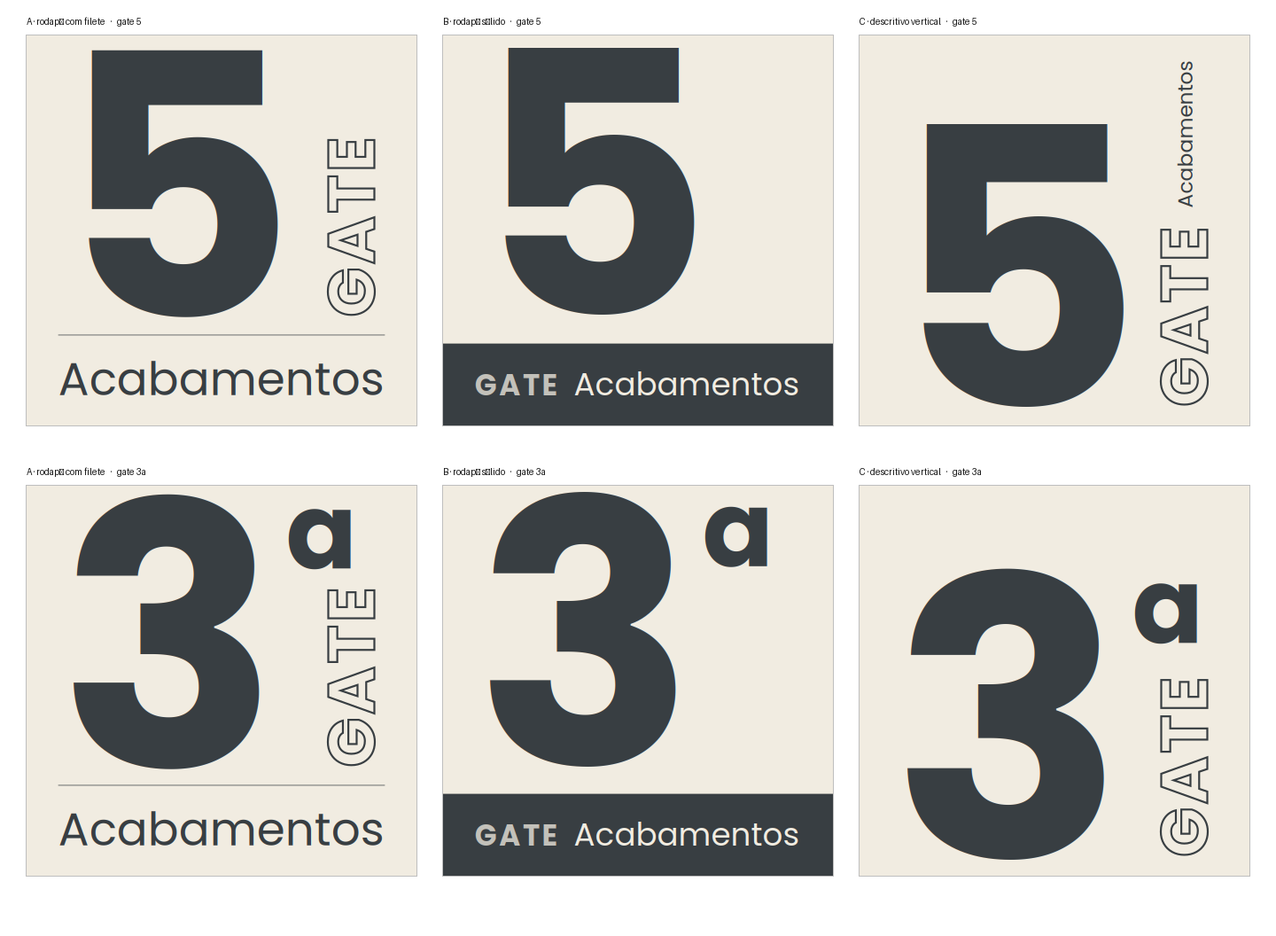
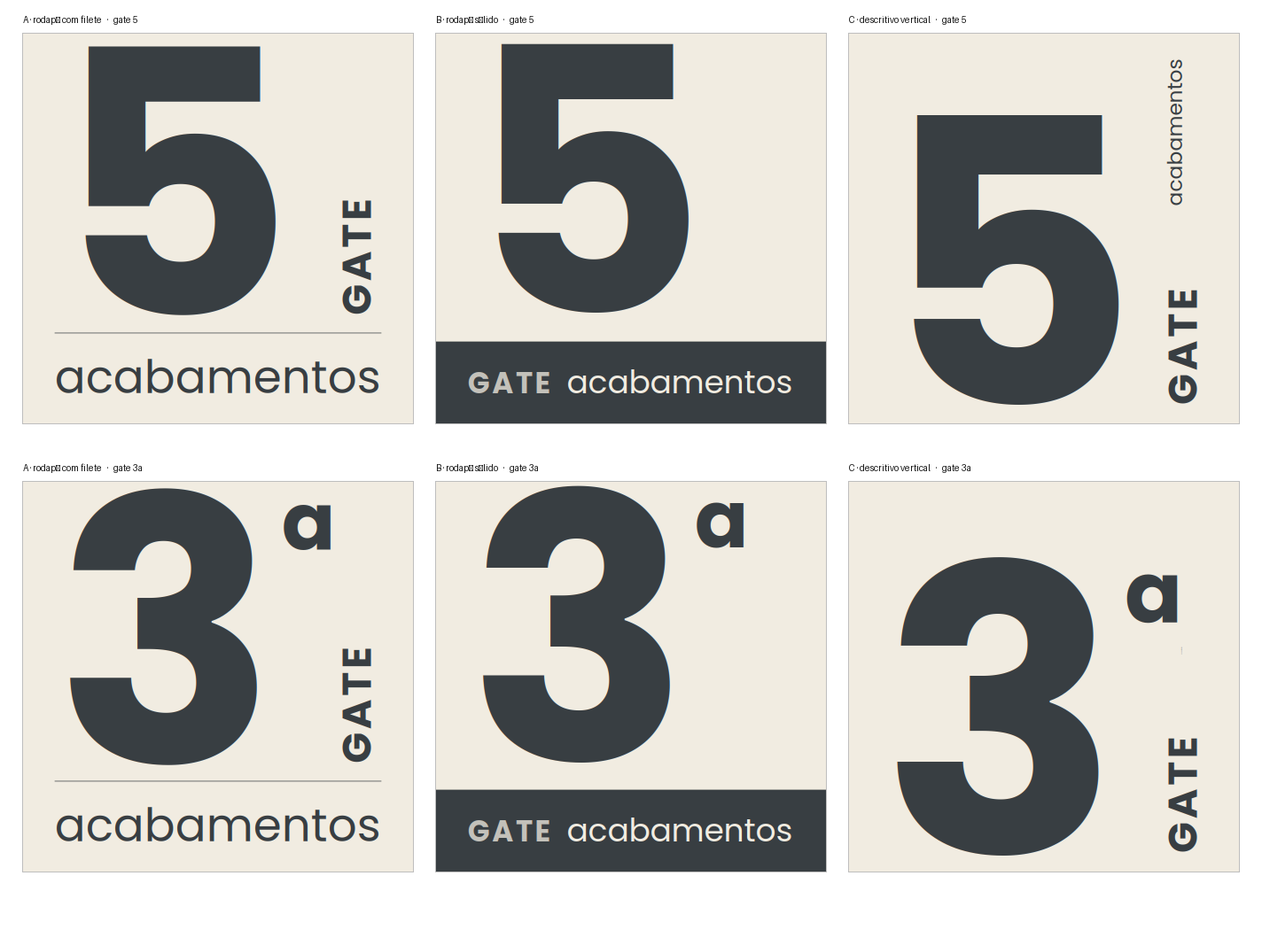
Set the numeral in SemiBold and drop the descriptives' initial capital
The numeral was Bold 700; it is now SemiBold 600, which opens the counters
that Bold was closing at this size. GATE stays at Bold 700 — it is small, and
the extra weight compensates optically for the reduced size. Both are one
constant each in the generator.

The change does not buy a bigger numeral: it is limited by the height left
above the descriptive footer, not by width, and 600 is only 2.4% narrower
than 700.

Descriptives lose their initial capital, matching how the brand writes
"fenabel" and "the heart of seating". The generator lowercases the first
character on read, so descritivos.json is normalised however it is typed, and
internal acronyms survive.

Weights now flow through the metrics helper per call rather than defaulting to
700, and every comparison sheet is regenerated so nothing in the repo still
shows the old weight or capitalisation.

Claude-Session: https://claude.ai/code/session_013mNXnbAsAh2sutmGwQ3Pq1

diff --git a/sinaletica-cargas/design-system/Serie.dc.html b/sinaletica-cargas/design-system/Serie.dc.html
@@ -40,34 +40,34 @@
       <div style="display:grid; grid-template-columns:repeat(5, minmax(0, 1fr));
                   gap:22px; margin-top:30px">
         <div style="display:flex; flex-direction:column; gap:8px">
-          <div style="border:1px solid #DAD7D0"><svg viewBox="0 0 1000 1000" style="display:block;width:100%;height:auto"><rect width="1000" height="1000" fill="#F1ECE1"/><text x="81" y="722" font-family="Poppins" font-weight="700" font-size="936" fill="#383E42" >2</text><g transform="translate(892,722) rotate(-90)"><text font-family="Poppins" font-weight="700" font-size="104" letter-spacing="8" fill="#383E42">GATE</text></g><line x1="81" y1="768" x2="919" y2="768" stroke="#383E42" stroke-width="3" opacity=".55"/><text x="81" y="922" font-family="Poppins" font-weight="500" font-size="117" fill="#383E42" >[descritivo]</text></svg></div>
+          <div style="border:1px solid #DAD7D0"><svg viewBox="0 0 1000 1000" style="display:block;width:100%;height:auto"><rect width="1000" height="1000" fill="#F1ECE1"/><text x="81" y="722" font-family="Poppins" font-weight="600" font-size="942" fill="#383E42" >2</text><g transform="translate(892,722) rotate(-90)"><text font-family="Poppins" font-weight="700" font-size="104" letter-spacing="8" fill="#383E42">GATE</text></g><line x1="81" y1="768" x2="919" y2="768" stroke="#383E42" stroke-width="3" opacity=".55"/><text x="81" y="922" font-family="Poppins" font-weight="500" font-size="117" fill="#383E42" >[descritivo]</text></svg></div>
           <span class="lbl" style="">gate 2</span>
         </div><div style="display:flex; flex-direction:column; gap:8px">
-          <div style="border:1px solid #DAD7D0"><svg viewBox="0 0 1000 1000" style="display:block;width:100%;height:auto"><rect width="1000" height="1000" fill="#F1ECE1"/><text x="81" y="722" font-family="Poppins" font-weight="700" font-size="936" fill="#383E42" >3</text><g transform="translate(892,722) rotate(-90)"><text font-family="Poppins" font-weight="700" font-size="104" letter-spacing="8" fill="#383E42">GATE</text></g><line x1="81" y1="768" x2="919" y2="768" stroke="#383E42" stroke-width="3" opacity=".55"/><text x="81" y="922" font-family="Poppins" font-weight="500" font-size="117" fill="#383E42" >[descritivo]</text></svg></div>
+          <div style="border:1px solid #DAD7D0"><svg viewBox="0 0 1000 1000" style="display:block;width:100%;height:auto"><rect width="1000" height="1000" fill="#F1ECE1"/><text x="81" y="722" font-family="Poppins" font-weight="600" font-size="942" fill="#383E42" >3</text><g transform="translate(892,722) rotate(-90)"><text font-family="Poppins" font-weight="700" font-size="104" letter-spacing="8" fill="#383E42">GATE</text></g><line x1="81" y1="768" x2="919" y2="768" stroke="#383E42" stroke-width="3" opacity=".55"/><text x="81" y="922" font-family="Poppins" font-weight="500" font-size="117" fill="#383E42" >[descritivo]</text></svg></div>
           <span class="lbl" style="">gate 3</span>
         </div><div style="display:flex; flex-direction:column; gap:8px">
-          <div style="border:1px solid #DAD7D0"><svg viewBox="0 0 1000 1000" style="display:block;width:100%;height:auto"><rect width="1000" height="1000" fill="#F1ECE1"/><text x="81" y="722" font-family="Poppins" font-weight="700" font-size="936" fill="#383E42" >3</text><text x="665" y="174" font-family="Poppins" font-weight="700" font-size="201" fill="#383E42" >a</text><g transform="translate(892,722) rotate(-90)"><text font-family="Poppins" font-weight="700" font-size="104" letter-spacing="8" fill="#383E42">GATE</text></g><line x1="81" y1="768" x2="919" y2="768" stroke="#383E42" stroke-width="3" opacity=".55"/><text x="81" y="922" font-family="Poppins" font-weight="500" font-size="117" fill="#383E42" >[descritivo]</text></svg></div>
+          <div style="border:1px solid #DAD7D0"><svg viewBox="0 0 1000 1000" style="display:block;width:100%;height:auto"><rect width="1000" height="1000" fill="#F1ECE1"/><text x="81" y="722" font-family="Poppins" font-weight="600" font-size="942" fill="#383E42" >3</text><text x="663" y="174" font-family="Poppins" font-weight="600" font-size="203" fill="#383E42" >a</text><g transform="translate(892,722) rotate(-90)"><text font-family="Poppins" font-weight="700" font-size="104" letter-spacing="8" fill="#383E42">GATE</text></g><line x1="81" y1="768" x2="919" y2="768" stroke="#383E42" stroke-width="3" opacity=".55"/><text x="81" y="922" font-family="Poppins" font-weight="500" font-size="117" fill="#383E42" >[descritivo]</text></svg></div>
           <span class="lbl" style="color:#E42313">gate 3a</span>
         </div><div style="display:flex; flex-direction:column; gap:8px">
-          <div style="border:1px solid #DAD7D0"><svg viewBox="0 0 1000 1000" style="display:block;width:100%;height:auto"><rect width="1000" height="1000" fill="#F1ECE1"/><text x="81" y="722" font-family="Poppins" font-weight="700" font-size="936" fill="#383E42" >4</text><g transform="translate(892,722) rotate(-90)"><text font-family="Poppins" font-weight="700" font-size="104" letter-spacing="8" fill="#383E42">GATE</text></g><line x1="81" y1="768" x2="919" y2="768" stroke="#383E42" stroke-width="3" opacity=".55"/><text x="81" y="922" font-family="Poppins" font-weight="500" font-size="117" fill="#383E42" >[descritivo]</text></svg></div>
+          <div style="border:1px solid #DAD7D0"><svg viewBox="0 0 1000 1000" style="display:block;width:100%;height:auto"><rect width="1000" height="1000" fill="#F1ECE1"/><text x="81" y="722" font-family="Poppins" font-weight="600" font-size="942" fill="#383E42" >4</text><g transform="translate(892,722) rotate(-90)"><text font-family="Poppins" font-weight="700" font-size="104" letter-spacing="8" fill="#383E42">GATE</text></g><line x1="81" y1="768" x2="919" y2="768" stroke="#383E42" stroke-width="3" opacity=".55"/><text x="81" y="922" font-family="Poppins" font-weight="500" font-size="117" fill="#383E42" >[descritivo]</text></svg></div>
           <span class="lbl" style="">gate 4</span>
         </div><div style="display:flex; flex-direction:column; gap:8px">
-          <div style="border:1px solid #DAD7D0"><svg viewBox="0 0 1000 1000" style="display:block;width:100%;height:auto"><rect width="1000" height="1000" fill="#F1ECE1"/><text x="81" y="722" font-family="Poppins" font-weight="700" font-size="936" fill="#383E42" >5</text><g transform="translate(892,722) rotate(-90)"><text font-family="Poppins" font-weight="700" font-size="104" letter-spacing="8" fill="#383E42">GATE</text></g><line x1="81" y1="768" x2="919" y2="768" stroke="#383E42" stroke-width="3" opacity=".55"/><text x="81" y="922" font-family="Poppins" font-weight="500" font-size="117" fill="#383E42" >[descritivo]</text></svg></div>
+          <div style="border:1px solid #DAD7D0"><svg viewBox="0 0 1000 1000" style="display:block;width:100%;height:auto"><rect width="1000" height="1000" fill="#F1ECE1"/><text x="81" y="722" font-family="Poppins" font-weight="600" font-size="942" fill="#383E42" >5</text><g transform="translate(892,722) rotate(-90)"><text font-family="Poppins" font-weight="700" font-size="104" letter-spacing="8" fill="#383E42">GATE</text></g><line x1="81" y1="768" x2="919" y2="768" stroke="#383E42" stroke-width="3" opacity=".55"/><text x="81" y="922" font-family="Poppins" font-weight="500" font-size="117" fill="#383E42" >[descritivo]</text></svg></div>
           <span class="lbl" style="">gate 5</span>
         </div><div style="display:flex; flex-direction:column; gap:8px">
-          <div style="border:1px solid #DAD7D0"><svg viewBox="0 0 1000 1000" style="display:block;width:100%;height:auto"><rect width="1000" height="1000" fill="#F1ECE1"/><text x="81" y="722" font-family="Poppins" font-weight="700" font-size="936" fill="#383E42" >6</text><g transform="translate(892,722) rotate(-90)"><text font-family="Poppins" font-weight="700" font-size="104" letter-spacing="8" fill="#383E42">GATE</text></g><line x1="81" y1="768" x2="919" y2="768" stroke="#383E42" stroke-width="3" opacity=".55"/><text x="81" y="922" font-family="Poppins" font-weight="500" font-size="117" fill="#383E42" >[descritivo]</text></svg></div>
+          <div style="border:1px solid #DAD7D0"><svg viewBox="0 0 1000 1000" style="display:block;width:100%;height:auto"><rect width="1000" height="1000" fill="#F1ECE1"/><text x="81" y="722" font-family="Poppins" font-weight="600" font-size="942" fill="#383E42" >6</text><g transform="translate(892,722) rotate(-90)"><text font-family="Poppins" font-weight="700" font-size="104" letter-spacing="8" fill="#383E42">GATE</text></g><line x1="81" y1="768" x2="919" y2="768" stroke="#383E42" stroke-width="3" opacity=".55"/><text x="81" y="922" font-family="Poppins" font-weight="500" font-size="117" fill="#383E42" >[descritivo]</text></svg></div>
           <span class="lbl" style="">gate 6</span>
         </div><div style="display:flex; flex-direction:column; gap:8px">
-          <div style="border:1px solid #DAD7D0"><svg viewBox="0 0 1000 1000" style="display:block;width:100%;height:auto"><rect width="1000" height="1000" fill="#F1ECE1"/><text x="81" y="722" font-family="Poppins" font-weight="700" font-size="936" fill="#383E42" >7</text><g transform="translate(892,722) rotate(-90)"><text font-family="Poppins" font-weight="700" font-size="104" letter-spacing="8" fill="#383E42">GATE</text></g><line x1="81" y1="768" x2="919" y2="768" stroke="#383E42" stroke-width="3" opacity=".55"/><text x="81" y="922" font-family="Poppins" font-weight="500" font-size="117" fill="#383E42" >[descritivo]</text></svg></div>
+          <div style="border:1px solid #DAD7D0"><svg viewBox="0 0 1000 1000" style="display:block;width:100%;height:auto"><rect width="1000" height="1000" fill="#F1ECE1"/><text x="81" y="722" font-family="Poppins" font-weight="600" font-size="942" fill="#383E42" >7</text><g transform="translate(892,722) rotate(-90)"><text font-family="Poppins" font-weight="700" font-size="104" letter-spacing="8" fill="#383E42">GATE</text></g><line x1="81" y1="768" x2="919" y2="768" stroke="#383E42" stroke-width="3" opacity=".55"/><text x="81" y="922" font-family="Poppins" font-weight="500" font-size="117" fill="#383E42" >[descritivo]</text></svg></div>
           <span class="lbl" style="">gate 7</span>
         </div><div style="display:flex; flex-direction:column; gap:8px">
-          <div style="border:1px solid #DAD7D0"><svg viewBox="0 0 1000 1000" style="display:block;width:100%;height:auto"><rect width="1000" height="1000" fill="#F1ECE1"/><text x="81" y="722" font-family="Poppins" font-weight="700" font-size="936" fill="#383E42" >7</text><text x="600" y="174" font-family="Poppins" font-weight="700" font-size="201" fill="#383E42" >a</text><g transform="translate(892,722) rotate(-90)"><text font-family="Poppins" font-weight="700" font-size="104" letter-spacing="8" fill="#383E42">GATE</text></g><line x1="81" y1="768" x2="919" y2="768" stroke="#383E42" stroke-width="3" opacity=".55"/><text x="81" y="922" font-family="Poppins" font-weight="500" font-size="117" fill="#383E42" >[descritivo]</text></svg></div>
+          <div style="border:1px solid #DAD7D0"><svg viewBox="0 0 1000 1000" style="display:block;width:100%;height:auto"><rect width="1000" height="1000" fill="#F1ECE1"/><text x="81" y="722" font-family="Poppins" font-weight="600" font-size="942" fill="#383E42" >7</text><text x="615" y="174" font-family="Poppins" font-weight="600" font-size="203" fill="#383E42" >a</text><g transform="translate(892,722) rotate(-90)"><text font-family="Poppins" font-weight="700" font-size="104" letter-spacing="8" fill="#383E42">GATE</text></g><line x1="81" y1="768" x2="919" y2="768" stroke="#383E42" stroke-width="3" opacity=".55"/><text x="81" y="922" font-family="Poppins" font-weight="500" font-size="117" fill="#383E42" >[descritivo]</text></svg></div>
           <span class="lbl" style="color:#E42313">gate 7a</span>
         </div><div style="display:flex; flex-direction:column; gap:8px">
-          <div style="border:1px solid #DAD7D0"><svg viewBox="0 0 1000 1000" style="display:block;width:100%;height:auto"><rect width="1000" height="1000" fill="#F1ECE1"/><text x="81" y="722" font-family="Poppins" font-weight="700" font-size="936" fill="#383E42" >8</text><g transform="translate(892,722) rotate(-90)"><text font-family="Poppins" font-weight="700" font-size="104" letter-spacing="8" fill="#383E42">GATE</text></g><line x1="81" y1="768" x2="919" y2="768" stroke="#383E42" stroke-width="3" opacity=".55"/><text x="81" y="922" font-family="Poppins" font-weight="500" font-size="117" fill="#383E42" >[descritivo]</text></svg></div>
+          <div style="border:1px solid #DAD7D0"><svg viewBox="0 0 1000 1000" style="display:block;width:100%;height:auto"><rect width="1000" height="1000" fill="#F1ECE1"/><text x="81" y="722" font-family="Poppins" font-weight="600" font-size="942" fill="#383E42" >8</text><g transform="translate(892,722) rotate(-90)"><text font-family="Poppins" font-weight="700" font-size="104" letter-spacing="8" fill="#383E42">GATE</text></g><line x1="81" y1="768" x2="919" y2="768" stroke="#383E42" stroke-width="3" opacity=".55"/><text x="81" y="922" font-family="Poppins" font-weight="500" font-size="117" fill="#383E42" >[descritivo]</text></svg></div>
           <span class="lbl" style="">gate 8</span>
         </div><div style="display:flex; flex-direction:column; gap:8px">
-          <div style="border:1px solid #DAD7D0"><svg viewBox="0 0 1000 1000" style="display:block;width:100%;height:auto"><rect width="1000" height="1000" fill="#F1ECE1"/><text x="81" y="722" font-family="Poppins" font-weight="700" font-size="936" fill="#383E42" >9</text><g transform="translate(892,722) rotate(-90)"><text font-family="Poppins" font-weight="700" font-size="104" letter-spacing="8" fill="#383E42">GATE</text></g><line x1="81" y1="768" x2="919" y2="768" stroke="#383E42" stroke-width="3" opacity=".55"/><text x="81" y="922" font-family="Poppins" font-weight="500" font-size="117" fill="#383E42" >[descritivo]</text></svg></div>
+          <div style="border:1px solid #DAD7D0"><svg viewBox="0 0 1000 1000" style="display:block;width:100%;height:auto"><rect width="1000" height="1000" fill="#F1ECE1"/><text x="81" y="722" font-family="Poppins" font-weight="600" font-size="942" fill="#383E42" >9</text><g transform="translate(892,722) rotate(-90)"><text font-family="Poppins" font-weight="700" font-size="104" letter-spacing="8" fill="#383E42">GATE</text></g><line x1="81" y1="768" x2="919" y2="768" stroke="#383E42" stroke-width="3" opacity=".55"/><text x="81" y="922" font-family="Poppins" font-weight="500" font-size="117" fill="#383E42" >[descritivo]</text></svg></div>
           <span class="lbl" style="">gate 9</span>
         </div>
       </div>

diff --git a/sinaletica-cargas/design-system/PlacaConstrucao.dc.html b/sinaletica-cargas/design-system/PlacaConstrucao.dc.html
@@ -38,7 +38,7 @@
       <div style="display:flex; gap:40px; margin-top:34px; align-items:flex-start">
         <svg viewBox="-96 -56 1250 1180" width="600" height="566" style="flex-shrink:0">
           <rect width="1000" height="1000" fill="#F1ECE1" stroke="#DAD7D0"/>
-          <rect width="1000" height="1000" fill="#F1ECE1"/><text x="81" y="722" font-family="Poppins" font-weight="700" font-size="936" fill="#383E42" >3</text><text x="665" y="174" font-family="Poppins" font-weight="700" font-size="201" fill="#383E42" >a</text><g transform="translate(892,722) rotate(-90)"><text font-family="Poppins" font-weight="700" font-size="104" letter-spacing="8" fill="#383E42">GATE</text></g><line x1="81" y1="768" x2="919" y2="768" stroke="#383E42" stroke-width="3" opacity=".55"/><text x="81" y="922" font-family="Poppins" font-weight="500" font-size="117" fill="#383E42" >Acabamentos</text>
+          <rect width="1000" height="1000" fill="#F1ECE1"/><text x="81" y="722" font-family="Poppins" font-weight="600" font-size="942" fill="#383E42" >3</text><text x="663" y="174" font-family="Poppins" font-weight="600" font-size="203" fill="#383E42" >a</text><g transform="translate(892,722) rotate(-90)"><text font-family="Poppins" font-weight="700" font-size="104" letter-spacing="8" fill="#383E42">GATE</text></g><line x1="81" y1="768" x2="919" y2="768" stroke="#383E42" stroke-width="3" opacity=".55"/><text x="81" y="922" font-family="Poppins" font-weight="500" font-size="117" fill="#383E42" >acabamentos</text>
           <g stroke="#E42313" stroke-width="2" stroke-dasharray="8 8" fill="none" opacity=".85">
             <line x1="81" y1="-36" x2="81" y2="1040"/>
             <line x1="-64" y1="722" x2="1064" y2="722"/>
@@ -65,7 +65,7 @@
             <span style="flex-grow:1; font-size:13px; color:#4D4C4C">Filete, do topo</span>
             <span style="font-size:14px; font-weight:600; color:#2E2E2C">76,8%</span>
           </div><hr class="rule"><div style="display:flex; padding:10px 0; gap:14px; align-items:baseline">
-            <span style="flex-grow:1; font-size:13px; color:#4D4C4C">Caixa alta do numeral</span>
+            <span style="flex-grow:1; font-size:13px; color:#4D4C4C">Caixa alta do numeral — SemiBold 600</span>
             <span style="font-size:14px; font-weight:600; color:#2E2E2C">66,0%</span>
           </div><hr class="rule"><div style="display:flex; padding:10px 0; gap:14px; align-items:baseline">
             <span style="flex-grow:1; font-size:13px; color:#4D4C4C">Linha de base do numeral</span>
@@ -101,7 +101,7 @@
               O sufixo do 3a e do 7a mantém-se em expoente, posicionado a partir
               da largura real do numeral — que na Poppins muda de gate para gate.
               O corpo do descritivo é fixado pela palavra mais longa da série,
-              hoje <b>Acabamentos</b>, para que todas as placas fiquem iguais.</p>
+              hoje <b>acabamentos</b>, para que todas as placas fiquem iguais.</p>
           </div>
         </div>
       </div>

diff --git a/sinaletica-cargas/design-system/Tipografia.dc.html b/sinaletica-cargas/design-system/Tipografia.dc.html
@@ -64,17 +64,17 @@
         <hr class="rule">
         <div style="display:flex; flex-direction:column; gap:9px; padding:20px 0">
       <div style="display:flex; gap:14px; align-items:baseline">
-        <span class="lbl" style="color:#E42313">Poppins Bold 700</span>
+        <span class="lbl" style="color:#E42313">Poppins SemiBold 600</span>
         <span style="font-size:11px; color:#8A8781; margin-left:auto">Numeral do gate</span>
       </div>
-      <div style="font-size:72px; font-weight:700; color:#2E2E2C; line-height:1.12">3a</div>
+      <div style="font-size:72px; font-weight:600; color:#2E2E2C; line-height:1.12">3a</div>
     </div><hr class="rule">
         <div style="display:flex; flex-direction:column; gap:9px; padding:20px 0">
       <div style="display:flex; gap:14px; align-items:baseline">
         <span class="lbl" style="color:#E42313">Poppins Medium 500</span>
         <span style="font-size:11px; color:#8A8781; margin-left:auto">Descritivo do gate</span>
       </div>
-      <div style="font-size:30px; font-weight:500; color:#2E2E2C; line-height:1.12">Acabamentos</div>
+      <div style="font-size:30px; font-weight:500; color:#2E2E2C; line-height:1.12">acabamentos</div>
     </div><hr class="rule">
         <div style="display:flex; flex-direction:column; gap:9px; padding:20px 0">
       <div style="display:flex; gap:14px; align-items:baseline">

diff --git a/sinaletica-cargas/propostas/porta-gates/gerar-placas.py b/sinaletica-cargas/propostas/porta-gates/gerar-placas.py
@@ -15,7 +15,11 @@ import sys; sys.path.insert(0, '.')
 from metricas import adv, cap, xh, corpo_para_cap, corpo_para_largura
 
 GATES = ["2","3","3a","4","5","6","7","7a","8","9"]
-DESCRITIVO_MAIS_LONGO = "Acabamentos"
+DESCRITIVO_MAIS_LONGO = "acabamentos"
+
+PESO_NUM  = 600   # SemiBold, no numeral e no sufixo
+PESO_GATE = 700   # o rotulo e pequeno: mais peso compensa oticamente
+PESO_DESC = 500   # Medium, no descritivo
 
 L        = 1000
 FUNDO    = "#F1ECE1"   # RAL 9010
@@ -28,7 +32,7 @@ G_CAP    = 118         # caixa alta do GATE, 11.8%
 G_TRACO  = 5
 G_TRACK  = 8
 
-def _t(x, y, corpo, txt, peso=700, cor=TINTA, extra=""):
+def _t(x, y, corpo, txt, peso=PESO_NUM, cor=TINTA, extra=""):
     return (f'<text x="{x:.0f}" y="{y:.0f}" font-family="{FONTE}" '
             f'font-weight="{peso}" font-size="{corpo:.0f}" fill="{cor}" {extra}>{txt}</text>')
 
@@ -49,16 +53,16 @@ def _gate_vertical(base, estilo=None):
     if estilo == "nenhum":
         return ""
     if estilo == "solido-claro":
-        c = corpo_para_cap(G_CAP)
+        c = corpo_para_cap(G_CAP, PESO_GATE)
         pinta = f'fill="{TINTA_CLARA}"'
     elif estilo == "solido-pequeno":
-        c = corpo_para_cap(G_CAP * 0.62)
+        c = corpo_para_cap(G_CAP * 0.62, PESO_GATE)
         pinta = f'fill="{TINTA}"'
     else:  # contorno
-        c = corpo_para_cap(G_CAP)
+        c = corpo_para_cap(G_CAP, PESO_GATE)
         pinta = f'fill="none" stroke="{TINTA}" stroke-width="{G_TRACO}"'
     return (f'<g transform="translate({G_DIR},{base}) rotate(-90)">'
-            f'<text font-family="{FONTE}" font-weight="700" font-size="{c:.0f}" '
+            f'<text font-family="{FONTE}" font-weight="{PESO_GATE}" font-size="{c:.0f}" '
             f'letter-spacing="{G_TRACK}" {pinta}>GATE</text></g>')
 
 SUFIXO_REL = 0.17   # altura-x do sufixo, em fracao da caixa alta do numeral
@@ -72,10 +76,10 @@ def _sufixo(num, corpo_num, base_num, topo_num, teto_gate=None):
     com o numeral. Com valor absoluto, ao encolher o numeral o sufixo passou
     de 17% para 23% dele e comecou a competir com o algarismo.
     """
-    altura = SUFIXO_REL * cap() * corpo_num
-    c = altura / xh()
-    x = MARGEM + adv(num) * corpo_num + 18
-    x1 = x + adv("a") * c
+    altura = SUFIXO_REL * cap(PESO_NUM) * corpo_num
+    c = altura / xh(PESO_NUM)
+    x = MARGEM + adv(num, PESO_NUM) * corpo_num + 18
+    x1 = x + adv("a", PESO_NUM) * c
     assert x1 <= L - 40, f"sufixo sai da placa: {x1:.0f}"
     if teto_gate is not None:
         assert topo_num + altura < teto_gate, (
@@ -89,64 +93,64 @@ def layout_A(num, letra, desc, gate=None):
     base   = zona - 46
     # o numeral e limitado pela coluna do GATE, nao pela altura
     largura_util = (G_DIR - G_CAP - 22) - MARGEM
-    corpo = min(corpo_para_cap(zona - 108),
-                corpo_para_largura("4", largura_util))
-    topo  = base - cap() * corpo
-    teto_g = base - (adv("GATE") * corpo_para_cap(G_CAP) + 3*G_TRACK)
+    corpo = min(corpo_para_cap(zona - 108, PESO_NUM),
+                corpo_para_largura("4", largura_util, PESO_NUM))
+    topo  = base - cap(PESO_NUM) * corpo
+    teto_g = base - (adv("GATE", PESO_GATE) * corpo_para_cap(G_CAP, PESO_GATE) + 3*G_TRACK)
     suf = _sufixo(num, corpo, base, topo, teto_g)[0] if letra else ""
-    c_desc = min(corpo_para_largura(DESCRITIVO_MAIS_LONGO, L - 2*MARGEM, 500), 132)
+    c_desc = min(corpo_para_largura(DESCRITIVO_MAIS_LONGO, L - 2*MARGEM, PESO_DESC), 132)
     gate = gate or GATE_ESTILO
     if gate == "rodape":
-        c_k = corpo_para_cap(38)
-        kicker = _t(MARGEM, L - 78 - cap(500)*c_desc - 34, c_k, "GATE",
+        c_k = corpo_para_cap(38, PESO_GATE)
+        kicker = _t(MARGEM, L - 78 - cap(PESO_DESC)*c_desc - 34, c_k, "GATE",
                     cor=TINTA_CLARA, extra='letter-spacing="9"')
         return (_t(MARGEM, base, corpo, num) + suf +
                 f'<line x1="{MARGEM}" y1="{zona}" x2="{L-MARGEM}" y2="{zona}" '
                 f'stroke="{TINTA}" stroke-width="3" opacity=".55"/>' +
-                kicker + _t(MARGEM, L - 78, c_desc, desc, peso=500))
+                kicker + _t(MARGEM, L - 78, c_desc, desc, peso=PESO_DESC))
     return (_t(MARGEM, base, corpo, num) + suf + _gate_vertical(base, gate) +
             f'<line x1="{MARGEM}" y1="{zona}" x2="{L-MARGEM}" y2="{zona}" '
             f'stroke="{TINTA}" stroke-width="3" opacity=".55"/>' +
-            _t(MARGEM, L - 78, c_desc, desc, peso=500))
+            _t(MARGEM, L - 78, c_desc, desc, peso=PESO_DESC))
 
 # ── B · rodape solido, GATE dentro do rodape ─────────────────────────
 def layout_B(num, letra, desc):
     RODAPE = 210
     topo_r = L - RODAPE
     base   = topo_r - 74
-    corpo  = min(corpo_para_cap(topo_r - 130),
-                 corpo_para_largura("4", L - 2*MARGEM))
-    topo   = base - cap() * corpo
+    corpo  = min(corpo_para_cap(topo_r - 130, PESO_NUM),
+                 corpo_para_largura("4", L - 2*MARGEM, PESO_NUM))
+    topo   = base - cap(PESO_NUM) * corpo
     suf = _sufixo(num, corpo, base, topo)[0] if letra else ""
-    c_g  = corpo_para_cap(52)
+    c_g  = corpo_para_cap(52, PESO_GATE)
     c_d  = min(corpo_para_largura(DESCRITIVO_MAIS_LONGO,
-                                  L - 2*MARGEM - adv("GATE")*c_g - 60, 500), 112)
-    y = topo_r + RODAPE/2 + cap(500)*c_d/2
+                                  L - 2*MARGEM - adv("GATE", PESO_GATE)*c_g - 60, PESO_DESC), 112)
+    y = topo_r + RODAPE/2 + cap(PESO_DESC)*c_d/2
     return (_t(MARGEM, base, corpo, num) + suf +
             f'<rect x="0" y="{topo_r}" width="{L}" height="{RODAPE}" fill="{TINTA}"/>' +
             _t(MARGEM, y, c_g, "GATE", cor=FUNDO,
                extra=f'letter-spacing="6" opacity=".75"') +
-            _t(MARGEM + adv("GATE")*c_g + 60, y, c_d, desc, peso=500, cor=FUNDO))
+            _t(MARGEM + adv("GATE", PESO_GATE)*c_g + 60, y, c_d, desc, peso=PESO_DESC, cor=FUNDO))
 
 # ── C · descritivo vertical, na coluna do GATE ───────────────────────
 def layout_C(num, letra, desc):
     base = L - 48
     largura_util = (G_DIR - G_CAP - 22) - MARGEM
-    corpo = min(corpo_para_cap(base - 88),
-                corpo_para_largura("4", largura_util))
-    topo  = base - cap() * corpo
+    corpo = min(corpo_para_cap(base - 88, PESO_NUM),
+                corpo_para_largura("4", largura_util, PESO_NUM))
+    topo  = base - cap(PESO_NUM) * corpo
     suf = _sufixo(num, corpo, base, topo)[0] if letra else ""
-    c_g  = corpo_para_cap(G_CAP)
-    comp_g = adv("GATE") * c_g + 3*G_TRACK
+    c_g  = corpo_para_cap(G_CAP, PESO_GATE)
+    comp_g = adv("GATE", PESO_GATE) * c_g + 3*G_TRACK
     # o descritivo vertical tem de comecar abaixo do sufixo, senao passa
     # por cima dele nas placas com letra (3a, 7a)
     teto = (topo + 150 + 40) if letra else 60
     espaco = (base - comp_g - 46) - teto
-    c_d  = min(corpo_para_largura(DESCRITIVO_MAIS_LONGO, espaco, 500), 104)
+    c_d  = min(corpo_para_largura(DESCRITIVO_MAIS_LONGO, espaco, PESO_DESC), 104)
     return (_t(MARGEM, base, corpo, num) + suf + _gate_vertical(base) +
             f'<g transform="translate({G_DIR - G_CAP*0.32:.0f},'
             f'{base - comp_g - 46:.0f}) rotate(-90)">' +
-            _t(0, 0, c_d, desc, peso=500) + '</g>')
+            _t(0, 0, c_d, desc, peso=PESO_DESC) + '</g>')
 
 LAYOUTS = {"A": layout_A, "B": layout_B, "C": layout_C}
 
@@ -161,7 +165,10 @@ def descritivos():
     """Le descritivos.json. Por preencher -> marcador visivel, nunca inventado."""
     import json, pathlib
     d = json.loads(pathlib.Path("descritivos.json").read_text())
-    return {g: (d.get(g) or "[descritivo]") for g in GATES}
+    def semCaixaAlta(s):
+        """Tira so a maiuscula inicial — acronimos internos ficam intactos."""
+        return s[:1].lower() + s[1:] if s else s
+    return {g: semCaixaAlta(d.get(g) or "") or "[descritivo]" for g in GATES}
 
 
 if __name__ == "__main__":

diff --git a/sinaletica-cargas/design-system/build.py b/sinaletica-cargas/design-system/build.py
@@ -134,8 +134,8 @@ escrever("Tipografia.dc.html", f'''
 
       <div style="margin-top:24px">
         <hr class="rule">
-        {amostraTipo("Bold 700","Numeral do gate","3a","72px")}
-        {amostraTipo("Medium 500","Descritivo do gate","Acabamentos","30px",500)}
+        {amostraTipo("SemiBold 600","Numeral do gate","3a","72px",600)}
+        {amostraTipo("Medium 500","Descritivo do gate","acabamentos","30px",500)}
         {amostraTipo("Bold 700","Destino do totem","Cargas — Cais 5","28px")}
         {amostraTipo("Regular 400","Tradução inglesa","Loading — Gate 5","20px",400)}
         {amostraTipo("Regular 400","Horário e avisos","Segunda a Sexta · 08:00–12:00 · 13:30–17:50","14px",400)}
@@ -169,7 +169,7 @@ escrever("PlacaConstrucao.dc.html", f'''
       <div style="display:flex; gap:40px; margin-top:34px; align-items:flex-start">
         <svg viewBox="-96 -56 1250 1180" width="600" height="566" style="flex-shrink:0">
           <rect width="1000" height="1000" fill="{RAL9010}" stroke="{FILETE}"/>
-          {plate_svg("3","a","Acabamentos").split(">",1)[1].rsplit("</svg>",1)[0]}
+          {plate_svg("3","a","acabamentos").split(">",1)[1].rsplit("</svg>",1)[0]}
           <g stroke="{VERM}" stroke-width="2" stroke-dasharray="8 8" fill="none" opacity=".85">
             <line x1="81" y1="-36" x2="81" y2="1040"/>
             <line x1="-64" y1="{BASE_N}" x2="1064" y2="{BASE_N}"/>
@@ -194,7 +194,7 @@ escrever("PlacaConstrucao.dc.html", f'''
             <span style="font-size:14px; font-weight:600; color:{TINTA}">{b}</span>
           </div><hr class="rule">""" for a,b in [
             ("Margem esquerda","8,1%"),("Filete, do topo","76,8%"),
-            ("Caixa alta do numeral","66,0%"),("Linha de base do numeral","72,2%"),
+            ("Caixa alta do numeral — SemiBold 600","66,0%"),("Linha de base do numeral","72,2%"),
             ("GATE — caixa alta","7,3%"),("GATE — margem direita","10,8%"),
             ("Descritivo — Medium 500","até 83,8%")])}
 
@@ -218,7 +218,7 @@ escrever("PlacaConstrucao.dc.html", f'''
               O sufixo do 3a e do 7a mantém-se em expoente, posicionado a partir
               da largura real do numeral — que na Poppins muda de gate para gate.
               O corpo do descritivo é fixado pela palavra mais longa da série,
-              hoje <b>Acabamentos</b>, para que todas as placas fiquem iguais.</p>
+              hoje <b>acabamentos</b>, para que todas as placas fiquem iguais.</p>
           </div>
         </div>
       </div>

diff --git a/sinaletica-cargas/propostas/porta-gates/ESPECIFICACAO.md b/sinaletica-cargas/propostas/porta-gates/ESPECIFICACAO.md
@@ -12,7 +12,7 @@ Ficheiros: `gate-*.svg` · `serie-completa.png` · `montagem-gate-*.jpg`
 ## Posicionamento do descritivo — três hipóteses
 
 O descritivo é novo e não havia sítio óbvio para ele. Foram desenhadas três
-saídas, todas com a palavra mais longa (`Acabamentos`) para julgar o pior caso.
+saídas, todas com a palavra mais longa (`acabamentos`) para julgar o pior caso.
 
 | | O que faz | Veredicto |
 |---|---|---|
@@ -45,7 +45,7 @@ descritivo.
 | Formato | Quadrado |
 | Fundo | **RAL 9010** branco puro |
 | Tinta | **RAL 7016** cinza antracite |
-| Fonte | **Poppins** — Bold 700 no numeral, Medium 500 no descritivo |
+| Fonte | **Poppins** — SemiBold 600 no numeral, Bold 700 no GATE, Medium 500 no descritivo |
 | GATE | sólido, rodado 90°, caixa alta a 7,3%, partilha a linha de base do numeral |
 
 ### Grelha (em % do lado da placa)
@@ -55,6 +55,7 @@ descritivo.
 | Margem esquerda | 8,1% |
 | Filete, do topo | 76,8% |
 | Caixa alta do numeral | 66,0% |
+| Descritivo | sem maiúscula inicial |
 | Linha de base do numeral | 72,2% |
 | GATE — margem direita | 10,8% |
 | Descritivo | até 83,8% de largura |
@@ -71,6 +72,22 @@ Duas razões somam-se:
 
 O corpo é fixado pelo `4`, o mais largo da série, para que nenhuma placa
 transborde. Ver `referencias/03-identidade-marca/TIPOGRAFIA.md`.
+
+### Pesos
+
+O numeral é **SemiBold 600**, não Bold — a esta dimensão o Bold fecha as
+contraformas e a placa ganha peso a mais. O `GATE` fica em **Bold 700**
+porque é pequeno, e mais peso compensa oticamente o corpo reduzido. Trocar é
+uma linha: `PESO_NUM` e `PESO_GATE` em `gerar-placas.py`.
+
+Passar de 700 para 600 **não aumentou o numeral** — ele é limitado pela altura
+disponível, não pela largura, e o 600 só é 2,4% mais estreito.
+
+### Descritivos sem maiúscula inicial
+
+`acabamentos`, não `Acabamentos` — como a marca escreve `fenabel` e
+`the heart of seating`. O gerador força isto ao ler `descritivos.json`, seja
+como for que lá esteja escrito; acrónimos internos ficam intactos.
 
 ### O rótulo GATE
 
@@ -112,7 +129,7 @@ Preencher `descritivos.json` e correr `python3 gerar-placas.py`. Onde estiver
 vazio, sai o marcador `[descritivo]` — nunca uma palavra inventada.
 
 **A palavra mais longa fixa o corpo de todas as placas.** Hoje é
-`Acabamentos`. Se entrar uma maior, todas encolhem — vale a pena fechar a lista
+`acabamentos`. Se entrar uma maior, todas encolhem — vale a pena fechar a lista
 antes de produzir.
 
 ## Por decidir

diff --git a/sinaletica-cargas/referencias/03-identidade-marca/TIPOGRAFIA.md b/sinaletica-cargas/referencias/03-identidade-marca/TIPOGRAFIA.md
@@ -16,9 +16,17 @@ problema que a Neue Haas Grotesk trazia, que obrigava a licenciar quem desenha.
 
 | Peso | Onde |
 |---|---|
-| **Bold 700** | numeral do gate, destinos do totem |
+| **SemiBold 600** | numeral do gate e o seu sufixo |
+| **Bold 700** | rótulo GATE, destinos do totem |
 | **Medium 500** | descritivo do gate, destaques |
 | **Regular 400** | traduções inglesas, horário, avisos |
+
+O numeral é **SemiBold**, não Bold: a esta dimensão o Bold fecha demasiado as
+contraformas e a placa ganha peso a mais. O rótulo `GATE` fica em Bold porque
+é pequeno — mais peso compensa oticamente o corpo reduzido.
+
+Os descritivos escrevem-se **sem maiúscula inicial** (`acabamentos`), como a
+marca faz em `fenabel` e `the heart of seating`. Acrónimos internos mantêm-se.
 
 ## Dois cuidados
 
@@ -51,12 +59,15 @@ a leitura à distância, o descritivo é de perto.
 Estão lidas do ficheiro da fonte, não estimadas — ver
 `propostas/porta-gates/metricas.py`.
 
-| | Poppins Bold |
-|---|---|
-| Caixa alta | 0,705 em |
-| Altura-x | 0,558 em |
-| `GATE` | 2,631 em |
-| `Acabamentos` (Medium) | 7,180 em |
+| | SemiBold 600 | Bold 700 |
+|---|---|---|
+| Caixa alta | 0,701 em | 0,705 em |
+| Altura-x | 0,554 em | 0,558 em |
+| `4` (o mais largo) | 0,661 em | 0,677 em |
+| `7` (o mais estreito) | 0,548 em | 0,535 em |
+| `GATE` | 2,593 em | 2,631 em |
+
+`acabamentos` em Medium 500: **7,161 em**.
 
 ## Ficheiros
 
